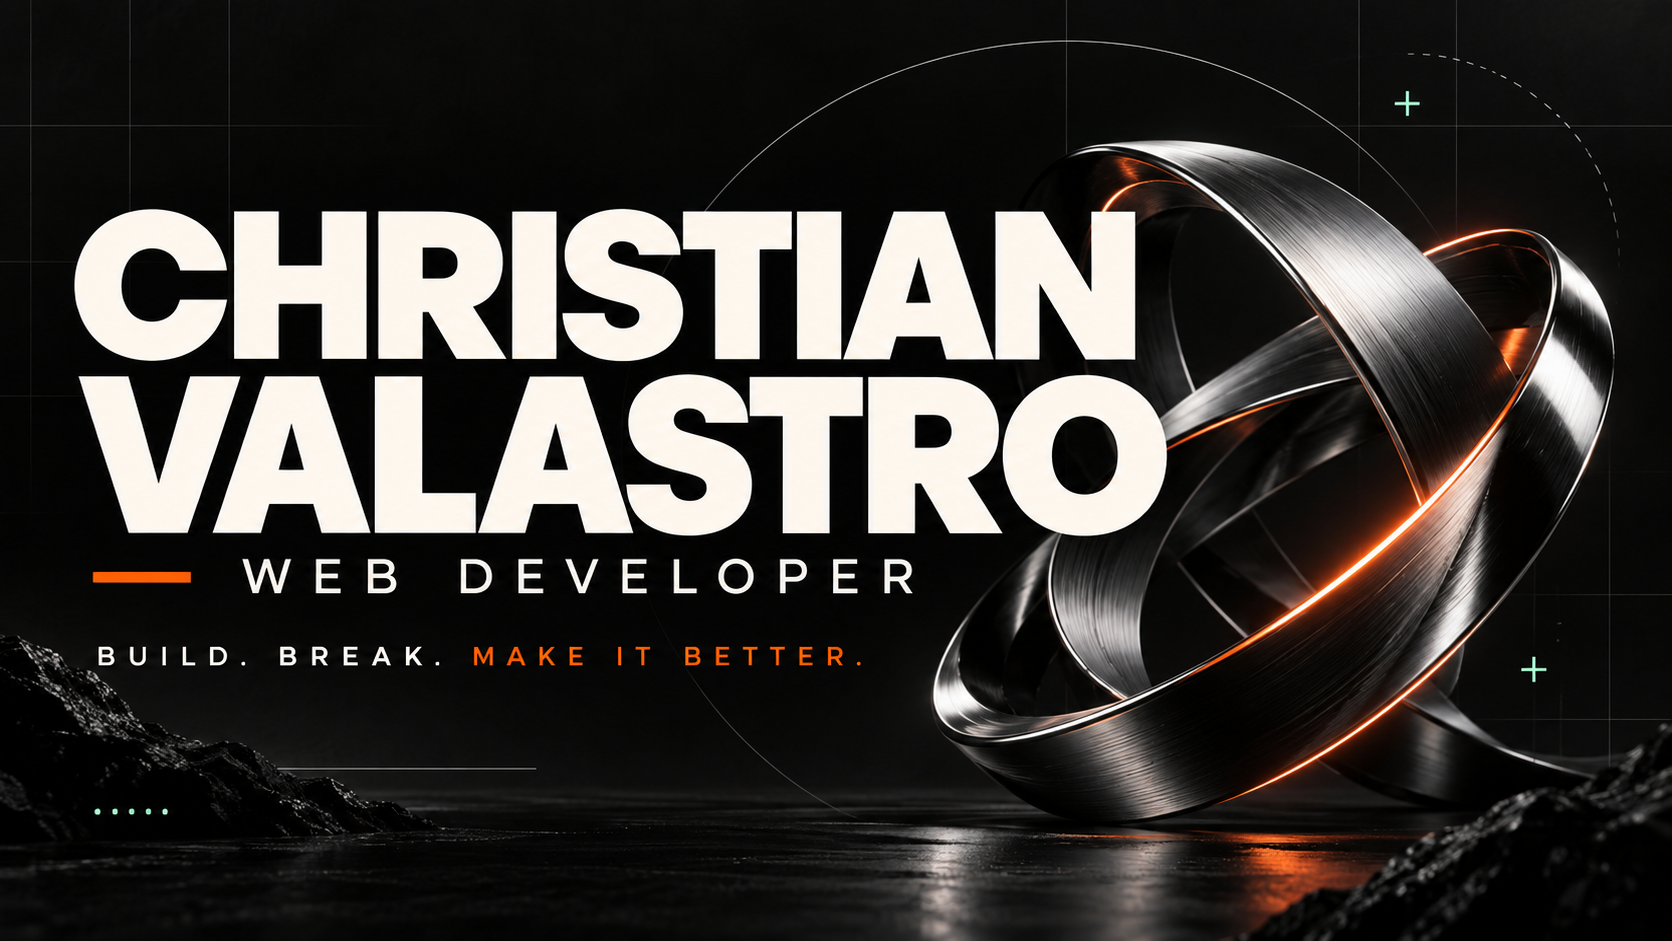
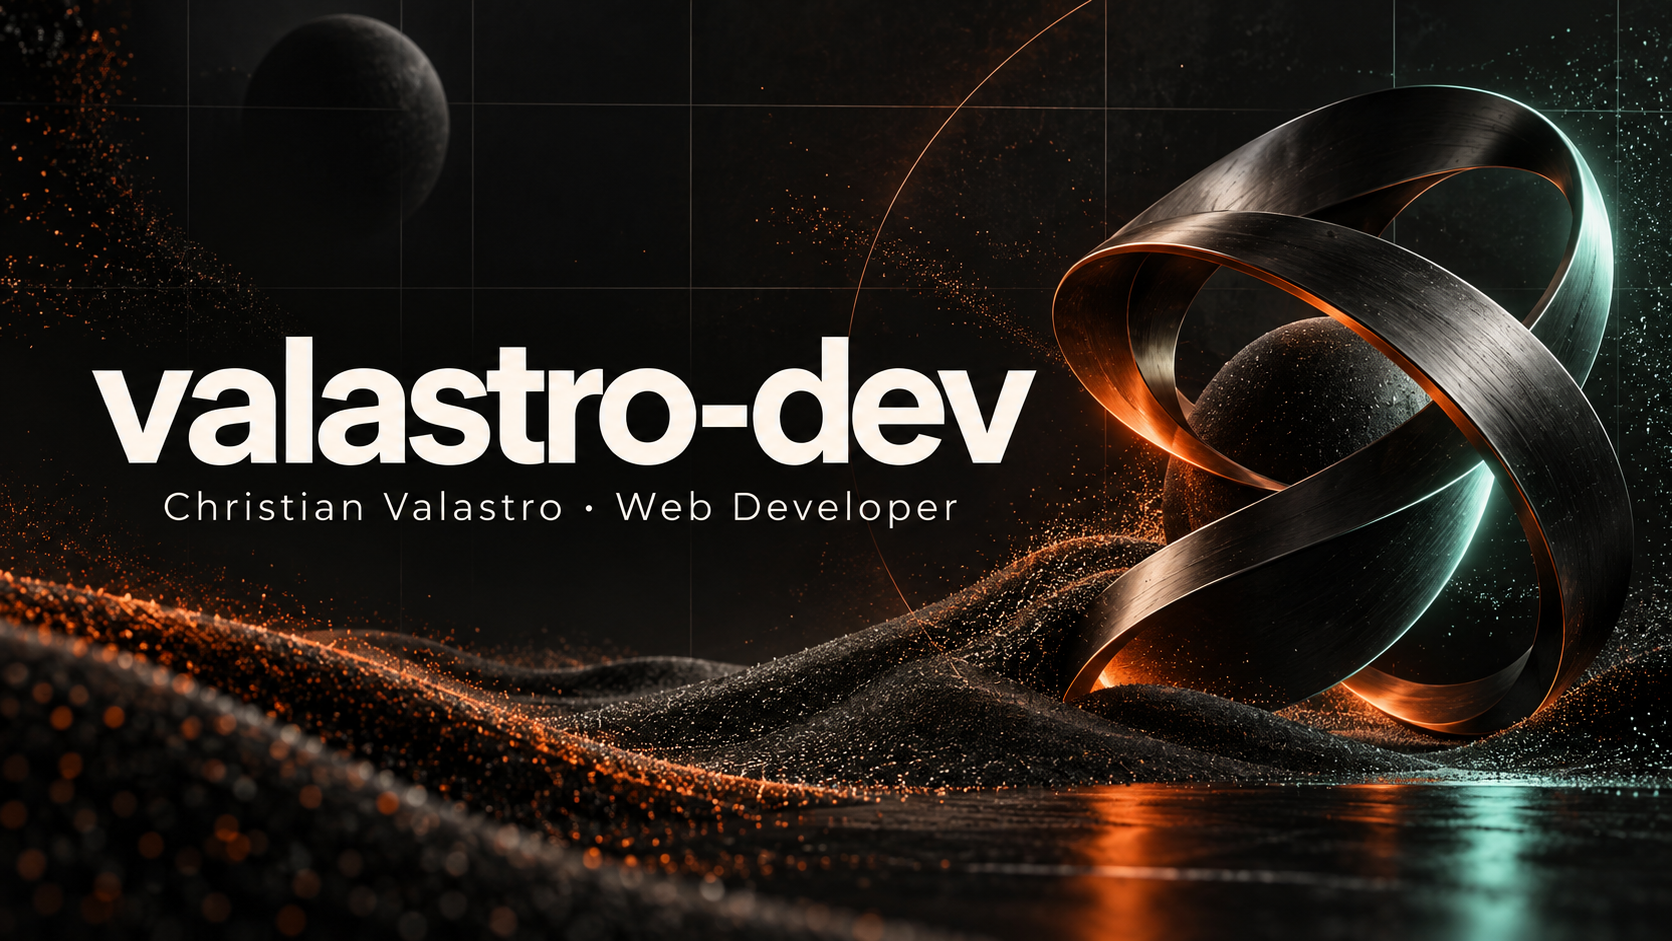
feat: rebrand portfolio as valastro-dev

diff --git a/src/App.css b/src/App.css
@@ -12,12 +12,19 @@
 .loader--hidden .loader__panel--right { transform: translateX(102%); }
 .loader__content { position: relative; z-index: 2; display: grid; gap: 18px; transition: opacity .25s, transform .45s; }
 .loader--hidden .loader__content { opacity: 0; transform: scale(.9); }
-.loader__mark { font-size: clamp(3rem, 7vw, 6.5rem); font-weight: 900; letter-spacing: -.09em; text-align: center; }
-.loader__mark span, .brand span { color: var(--accent); }
+.brand span { color: var(--accent); }
 .loader__track { width: min(260px, 60vw); height: 2px; overflow: hidden; background: #242424; }
 .loader__track span { display: block; width: 100%; height: 100%; background: var(--accent); transform-origin: left; animation: load 1.5s cubic-bezier(.65,0,.35,1) both; }
 .loader p { margin: 0; text-transform: uppercase; letter-spacing: .22em; color: var(--muted); font: 500 .58rem DM Mono, monospace; text-align: center; }
 @keyframes load { from { transform: scaleX(0); } to { transform: scaleX(1); } }
+.loader__brand { display: grid; justify-items: center; gap: 18px; }
+.loader__symbol { position: relative; width: clamp(82px, 9vw, 118px); aspect-ratio: 1; display: grid; place-items: center; overflow: hidden; border: 1px solid rgba(245,241,232,.55); background: #0d0d0d; box-shadow: 14px 14px 0 rgba(255,77,28,.9); animation: loader-symbol-in .7s cubic-bezier(.2,.8,.2,1) both; }
+.loader__symbol::before { content: ''; position: absolute; inset: -35%; border: 1px solid rgba(139,245,220,.35); transform: rotate(45deg); }
+.loader__symbol span { position: relative; z-index: 1; font-size: clamp(3rem, 5vw, 5rem); font-weight: 900; line-height: 1; letter-spacing: -.13em; transform: translateX(-3px); }
+.loader__symbol i { position: absolute; z-index: 2; width: 2px; height: 142%; background: var(--accent); transform: rotate(35deg); box-shadow: 0 0 20px rgba(255,77,28,.6); }
+.loader__name { text-transform: uppercase; letter-spacing: .08em; font: 800 clamp(.9rem, 1.4vw, 1.2rem) Inter, sans-serif; }
+.loader__name span { color: var(--accent); }
+@keyframes loader-symbol-in { from { opacity: 0; transform: rotate(-14deg) scale(.72); } to { opacity: 1; transform: rotate(0) scale(1); } }
 
 .sidebar {
   position: fixed; inset: 0 auto 0 0; z-index: 20; width: 116px; padding: 30px 0 26px;

diff --git a/index.html b/index.html
@@ -3,8 +3,19 @@
   <head>
     <meta charset="UTF-8" />
     <meta name="viewport" content="width=device-width, initial-scale=1.0" />
-    <meta name="description" content="Portfolio di Christian Valastro, web developer a Catania." />
-    <title>Christian Valastro — Web Developer</title>
+    <meta name="application-name" content="valastro-dev" />
+    <meta name="description" content="valastro-dev — portfolio di Christian Valastro, web developer a Catania. Siti web, applicazioni ed esperienze digitali su misura." />
+    <meta name="theme-color" content="#090909" />
+    <meta property="og:type" content="website" />
+    <meta property="og:title" content="valastro-dev — Christian Valastro" />
+    <meta property="og:description" content="Siti web, applicazioni ed esperienze digitali su misura." />
+    <meta property="og:image" content="/og.png" />
+    <meta name="twitter:card" content="summary_large_image" />
+    <meta name="twitter:title" content="valastro-dev — Christian Valastro" />
+    <meta name="twitter:description" content="Siti web, applicazioni ed esperienze digitali su misura." />
+    <meta name="twitter:image" content="/og.png" />
+    <link rel="icon" type="image/svg+xml" href="/favicon.svg" />
+    <title>valastro-dev — Web Developer</title>
   </head>
   <body>
     <div id="root"></div>

diff --git a/src/App.jsx b/src/App.jsx
@@ -100,7 +100,10 @@ function Loader({ hidden }) {
       <div className="loader__panel loader__panel--left" />
       <div className="loader__panel loader__panel--right" />
       <div className="loader__content">
-        <div className="loader__mark">CV<span>.</span></div>
+        <div className="loader__brand" aria-label="valastro-dev">
+          <div className="loader__symbol"><span>V</span><i /></div>
+          <div className="loader__name">Christian<span> Valastro</span></div>
+        </div>
         <div className="loader__track"><span /></div>
         <p>Costruendo l’esperienza</p>
       </div>
